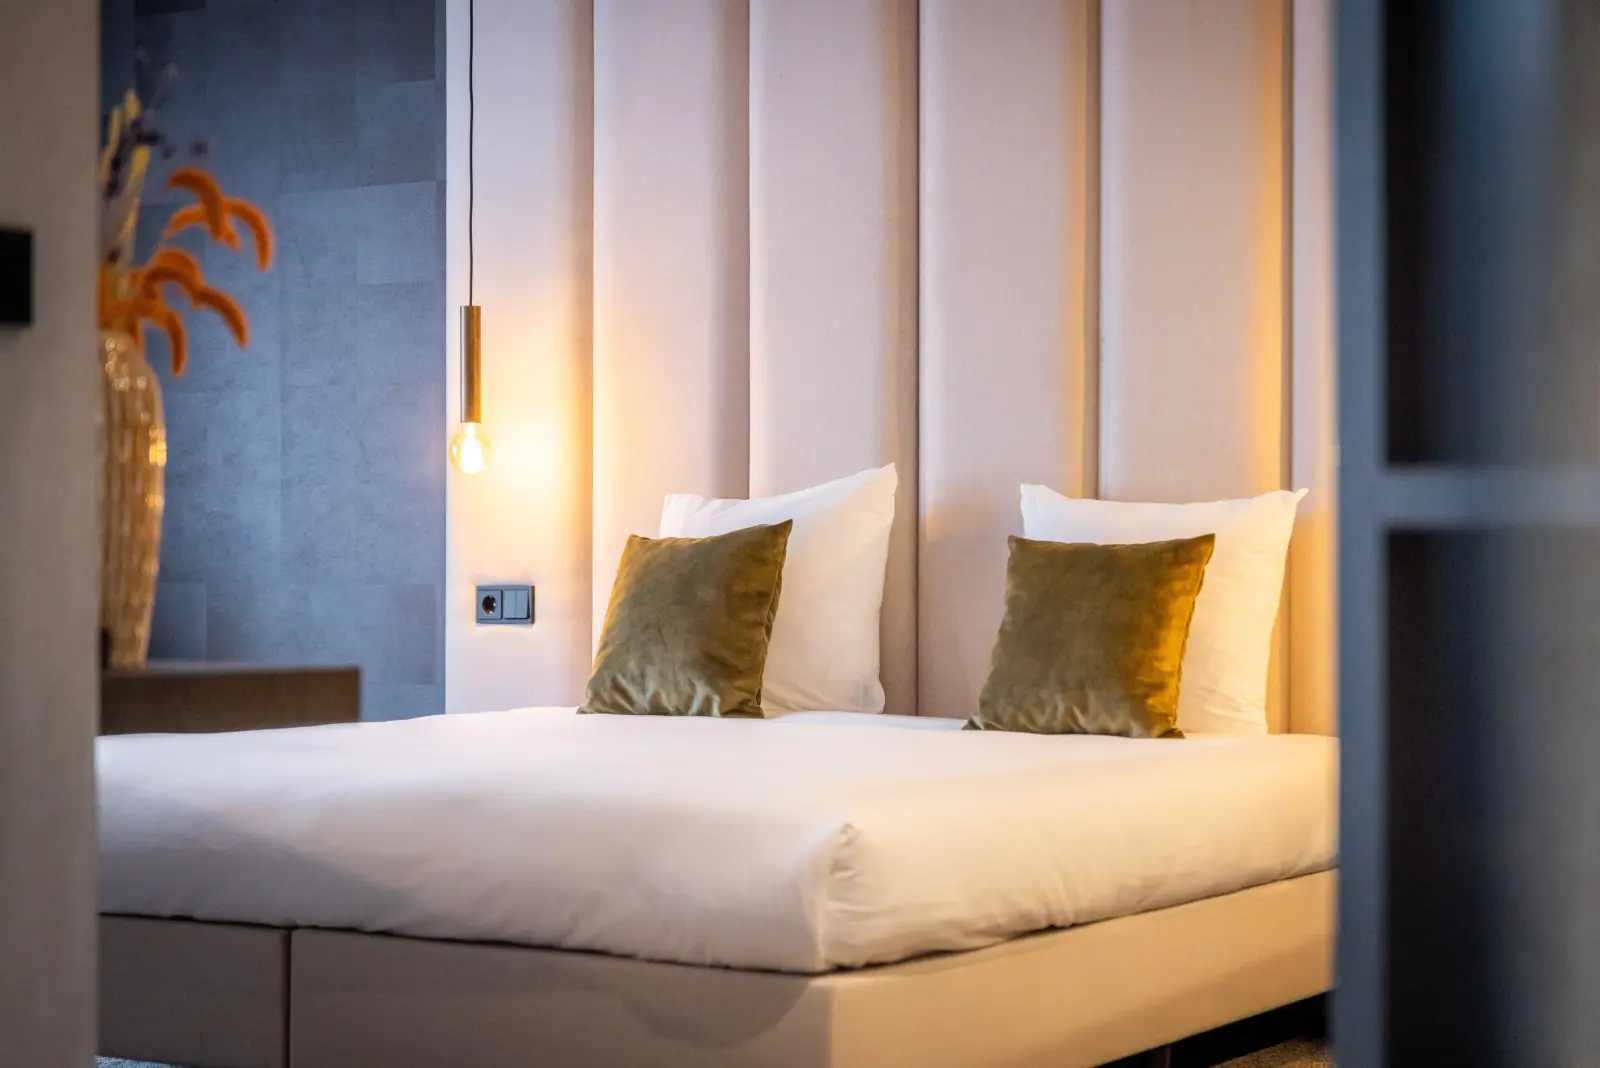
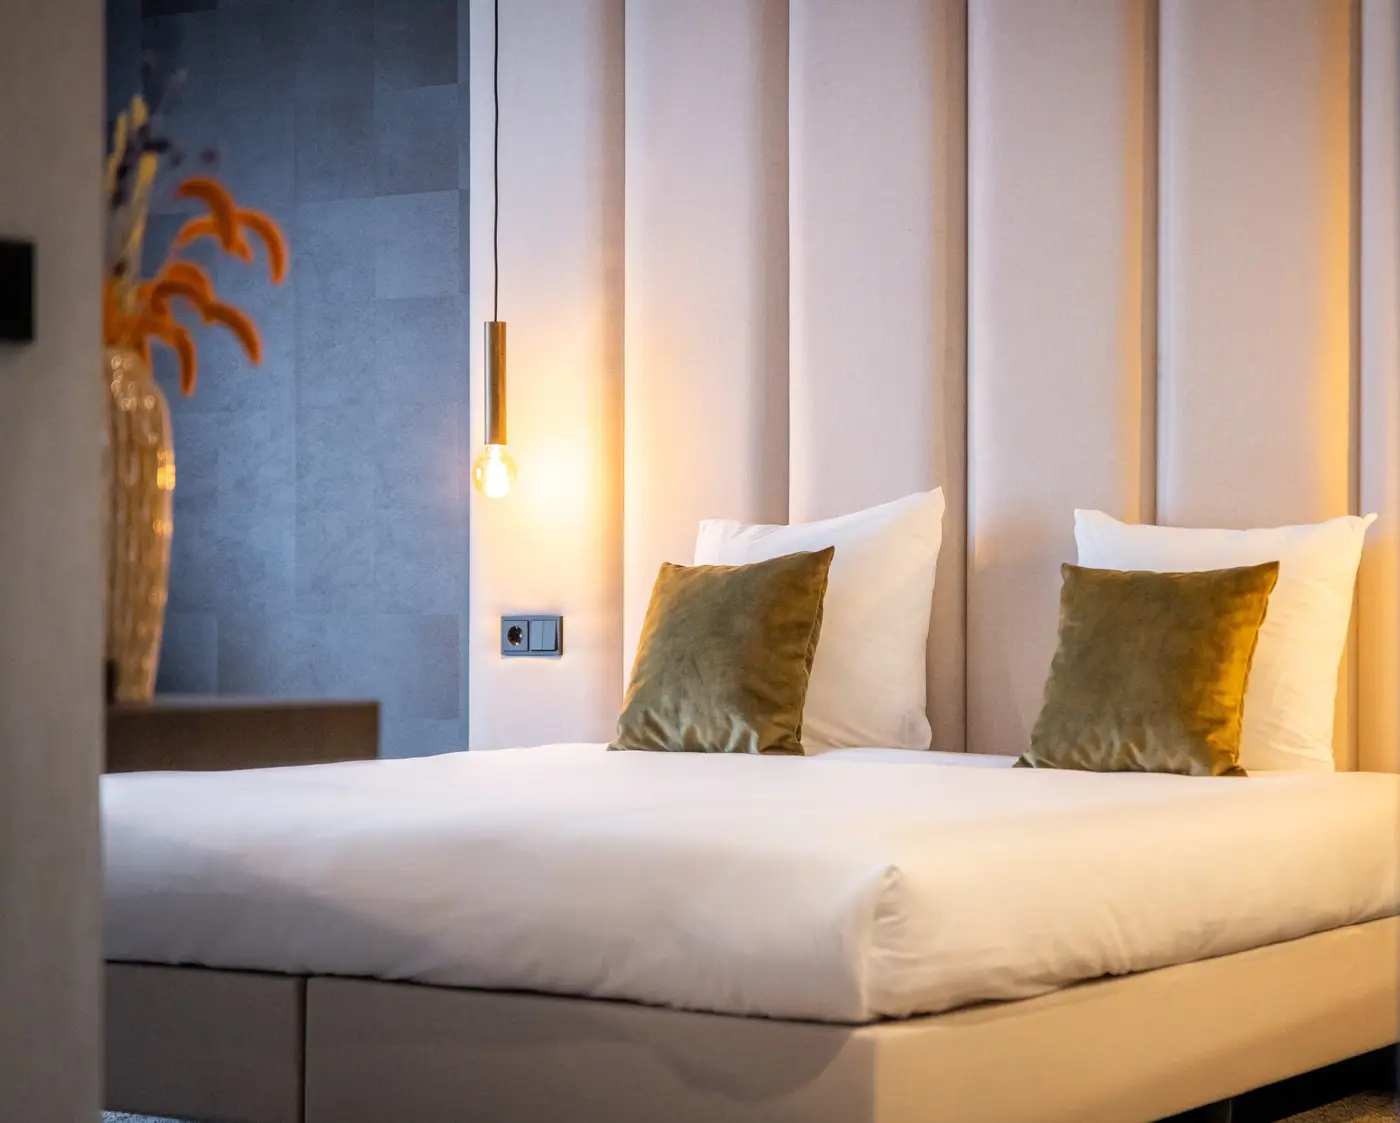
Kamertypes promo-blok: early check-in/late check-out thema + foto rechts bijgesneden
- Tekst van het promo-blok herschreven naar early check-in / late check-out
  (zoals Maashof), met Asteria-faciliteiten. NL/EN/DE.
- promo-bruidssuite.webp: donkere kast rechts weggesneden zodat het bed
  centraler in beeld staat.

diff --git a/kamertypes-de.html b/kamertypes-de.html
@@ -1532,11 +1532,11 @@
 <section class="promo-section">
   <div class="promo">
     <div class="promo__inner">
-      <img class="promo__img" src="fotos/promo-bruidssuite.webp" alt="Machen Sie Ihren Aufenthalt zu einem kompletten Erlebnis" loading="lazy">
+      <img class="promo__img" src="fotos/promo-bruidssuite.webp" alt="Von früh einchecken bis spät auschecken" loading="lazy">
       <div class="promo__card">
-        <span class="section-eyebrow">Mehr als eine Übernachtung</span>
-        <h2>Machen Sie Ihren Aufenthalt zu einem kompletten Erlebnis</h2>
-        <p>Kombinieren Sie Ihr Zimmer mit unserem 300 m² großen Wellnessbereich im Top Floor, einem köstlichen Abendessen in der Brasserie oder einem unserer Arrangements. So wird aus einer Übernachtung ein Moment, auf den man sich freut.</p>
+        <span class="section-eyebrow">Alles für einen sorgenfreien Aufenthalt</span>
+        <h2>Von früh einchecken bis spät auschecken</h2>
+        <p>Möchten Sie früher anreisen oder etwas länger bleiben? Mit unserem Early Check-in oder Late Check-out holen Sie alles aus Ihrem Aufenthalt heraus. Und mit großzügigen Parkmöglichkeiten, einem abgeschlossenen Fahrradraum und unserem 300 m² großen Wellnessbereich auf dem Top Floor ist Ihr Komfort komplett.</p>
         <div class="promo__btns">
           <a class="btn-light" href="https://www.asteria.nl/arrangementen">Arrangements ansehen</a>
           <a class="btn-primary" href="#" onclick="window.openBooking();return false;" data-track-cta="promo">Direkt reservieren</a>

diff --git a/kamertypes-en.html b/kamertypes-en.html
@@ -1532,11 +1532,11 @@
 <section class="promo-section">
   <div class="promo">
     <div class="promo__inner">
-      <img class="promo__img" src="fotos/promo-bruidssuite.webp" alt="Turn your stay into a complete experience" loading="lazy">
+      <img class="promo__img" src="fotos/promo-bruidssuite.webp" alt="From early check-in to late check-out" loading="lazy">
       <div class="promo__card">
-        <span class="section-eyebrow">More than a stay</span>
-        <h2>Turn your stay into a complete experience</h2>
-        <p>Combine your room with our 300 m² wellness area on the Top Floor, a delicious dinner in the brasserie or one of our packages. That is how an overnight stay becomes something to look forward to.</p>
+        <span class="section-eyebrow">Everything for a carefree stay</span>
+        <h2>From early check-in to late check-out</h2>
+        <p>Would you like to arrive earlier or stay a little longer? With our early check-in or late check-out you get the most out of your stay. And with ample parking, locked bicycle storage and our 300 m² wellness on the Top Floor, your comfort is complete.</p>
         <div class="promo__btns">
           <a class="btn-light" href="https://www.asteria.nl/arrangementen">View packages</a>
           <a class="btn-primary" href="#" onclick="window.openBooking();return false;" data-track-cta="promo">Book directly</a>

diff --git a/kamertypes.html b/kamertypes.html
@@ -1532,11 +1532,11 @@
 <section class="promo-section">
   <div class="promo">
     <div class="promo__inner">
-      <img class="promo__img" src="fotos/promo-bruidssuite.webp" alt="Maak van uw verblijf een complete ervaring" loading="lazy">
+      <img class="promo__img" src="fotos/promo-bruidssuite.webp" alt="Van vroeg inchecken tot laat uitchecken" loading="lazy">
       <div class="promo__card">
-        <span class="section-eyebrow">Meer dan een overnachting</span>
-        <h2>Maak van uw verblijf een complete ervaring</h2>
-        <p>Combineer uw kamer met onze wellness van 300 m² op de Top Floor, een heerlijk diner in de brasserie of een van onze arrangementen. Zo wordt een overnachting een moment om naar uit te kijken.</p>
+        <span class="section-eyebrow">Alles voor een zorgeloos verblijf</span>
+        <h2>Van vroeg inchecken tot laat uitchecken</h2>
+        <p>Wilt u eerder aankomen of juist nog wat langer blijven? Met onze early check-in of late check-out haalt u alles uit uw verblijf. En met ruime parkeergelegenheid, een afgesloten fietsenstalling en onze wellness van 300 m² op de Top Floor is uw comfort compleet.</p>
         <div class="promo__btns">
           <a class="btn-light" href="https://www.asteria.nl/arrangementen">Bekijk arrangementen</a>
           <a class="btn-primary" href="#" onclick="window.openBooking();return false;" data-track-cta="promo">Reserveer direct</a>

diff --git a/build_kamers.py b/build_kamers.py
@@ -178,11 +178,11 @@ UI.update({
  'ov_sub_p':  {'nl':'Al onze kamers zijn modern en sfeervol ingericht en standaard voorzien van alle comfort. Van een comfortabele Comfort kamer tot de luxe Bruidssuite met vrijstaand ligbad — elke kamer is met zorg ingericht.',
               'en':'All our rooms are modern and tastefully furnished and come with every comfort as standard. From a cosy Comfort room to the luxurious Bridal Suite with a freestanding bathtub — every room is appointed with care.',
               'de':'Alle unsere Zimmer sind modern und stilvoll eingerichtet und standardmäßig mit allem Komfort ausgestattet. Vom gemütlichen Komfortzimmer bis zur luxuriösen Hochzeitssuite mit freistehender Badewanne — jedes Zimmer ist mit Sorgfalt gestaltet.'},
- 'promo_eyebrow':{'nl':'Meer dan een overnachting','en':'More than a stay','de':'Mehr als eine Übernachtung'},
- 'promo_h':   {'nl':'Maak van uw verblijf een complete ervaring','en':'Turn your stay into a complete experience','de':'Machen Sie Ihren Aufenthalt zu einem kompletten Erlebnis'},
- 'promo_p':   {'nl':'Combineer uw kamer met onze wellness van 300 m² op de Top Floor, een heerlijk diner in de brasserie of een van onze arrangementen. Zo wordt een overnachting een moment om naar uit te kijken.',
-              'en':'Combine your room with our 300 m² wellness area on the Top Floor, a delicious dinner in the brasserie or one of our packages. That is how an overnight stay becomes something to look forward to.',
-              'de':'Kombinieren Sie Ihr Zimmer mit unserem 300 m² großen Wellnessbereich im Top Floor, einem köstlichen Abendessen in der Brasserie oder einem unserer Arrangements. So wird aus einer Übernachtung ein Moment, auf den man sich freut.'},
+ 'promo_eyebrow':{'nl':'Alles voor een zorgeloos verblijf','en':'Everything for a carefree stay','de':'Alles für einen sorgenfreien Aufenthalt'},
+ 'promo_h':   {'nl':'Van vroeg inchecken tot laat uitchecken','en':'From early check-in to late check-out','de':'Von früh einchecken bis spät auschecken'},
+ 'promo_p':   {'nl':'Wilt u eerder aankomen of juist nog wat langer blijven? Met onze early check-in of late check-out haalt u alles uit uw verblijf. En met ruime parkeergelegenheid, een afgesloten fietsenstalling en onze wellness van 300 m² op de Top Floor is uw comfort compleet.',
+              'en':'Would you like to arrive earlier or stay a little longer? With our early check-in or late check-out you get the most out of your stay. And with ample parking, locked bicycle storage and our 300 m² wellness on the Top Floor, your comfort is complete.',
+              'de':'Möchten Sie früher anreisen oder etwas länger bleiben? Mit unserem Early Check-in oder Late Check-out holen Sie alles aus Ihrem Aufenthalt heraus. Und mit großzügigen Parkmöglichkeiten, einem abgeschlossenen Fahrradraum und unserem 300 m² großen Wellnessbereich auf dem Top Floor ist Ihr Komfort komplett.'},
  'promo_btn1':{'nl':'Bekijk arrangementen','en':'View packages','de':'Arrangements ansehen'},
  'promo_btn2':{'nl':'Reserveer direct','en':'Book directly','de':'Direkt reservieren'},
  'ov_faq_q':  {'nl':'Welke kamertypes biedt Hotel Asteria?','en':'Which room types does Hotel Asteria offer?','de':'Welche Zimmertypen bietet Hotel Asteria?'},